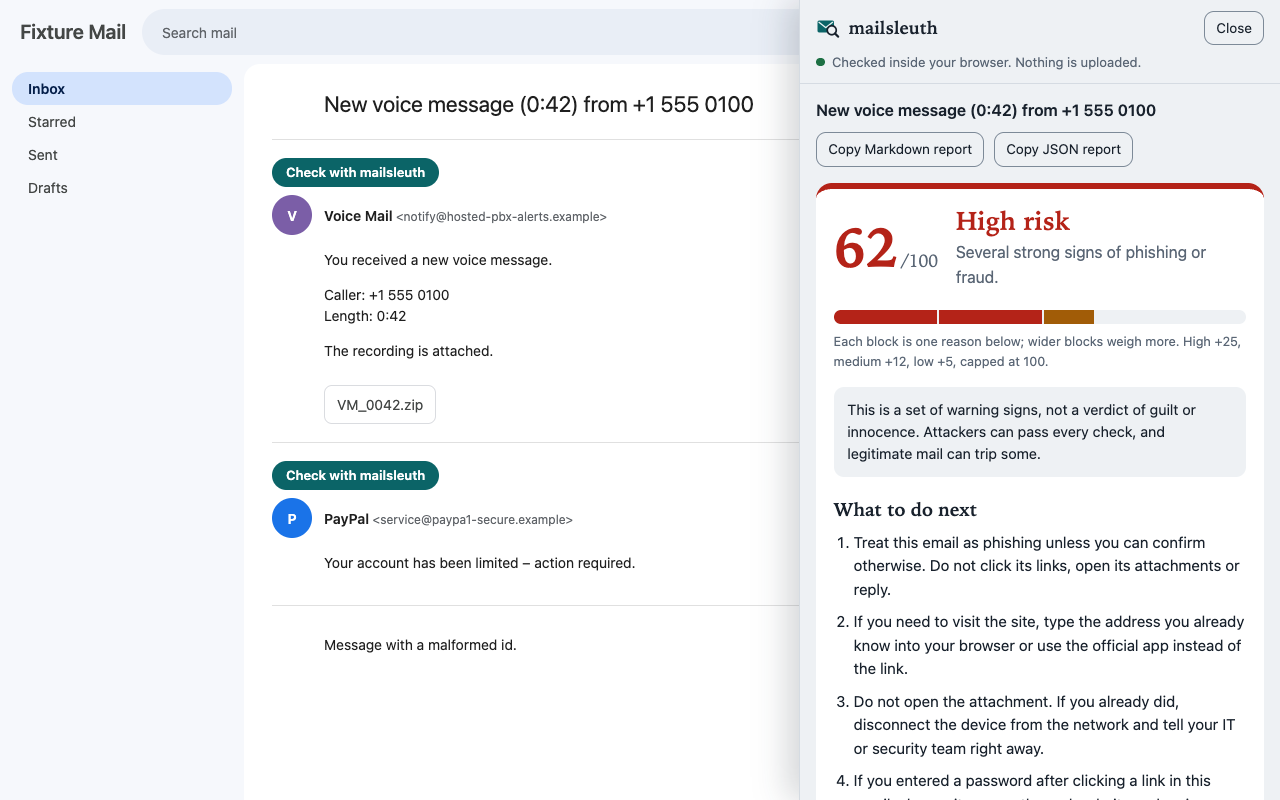
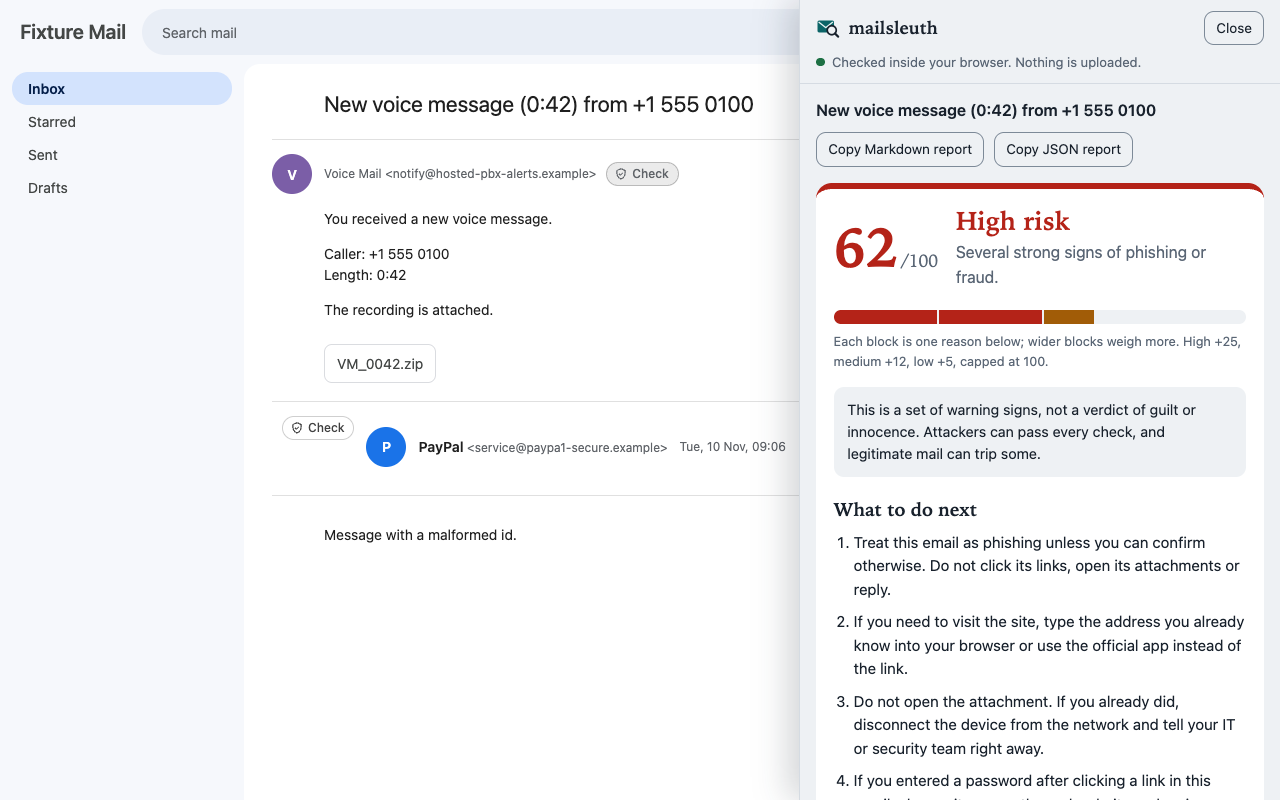
Extension: small Check chip in the sender line instead of a full-height button

diff --git a/src/extension/content.ts b/src/extension/content.ts
@@ -57,19 +57,49 @@ window.addEventListener('message', (e) => {
   if (e.origin === EXT_ORIGIN && frame && e.source === frame.contentWindow && e.data?.type === 'close') closePanel();
 });
 
+// Neutral colours taken from the surrounding text, so the chip suits Gmail's light and dark themes.
+const style = document.createElement('style');
+style.textContent = `.mailsleuth-chip{display:inline-flex;align-items:center;gap:4px;height:24px;padding:0 9px 0 7px;margin:0;
+font:500 12px/1 "Google Sans",system-ui,-apple-system,"Segoe UI",Roboto,sans-serif;color:inherit;background:transparent;
+border:1px solid rgba(128,128,128,.45);border-radius:999px;cursor:pointer;opacity:.85}
+.mailsleuth-chip:hover{opacity:1;background:rgba(128,128,128,.16)}
+.mailsleuth-chip:focus-visible{opacity:1;outline:2px solid #0b8a8f;outline-offset:2px}`;
+document.head.append(style);
+
+function shieldIcon(): SVGSVGElement {
+  const NS = 'http://www.w3.org/2000/svg';
+  const svg = document.createElementNS(NS, 'svg');
+  svg.setAttribute('viewBox', '0 0 24 24');
+  svg.setAttribute('width', '14');
+  svg.setAttribute('height', '14');
+  svg.setAttribute('aria-hidden', 'true');
+  const path = document.createElementNS(NS, 'path');
+  path.setAttribute('d', 'M12 3 5 6v5c0 4.4 3 8.3 7 9.5 4-1.2 7-5.1 7-9.5V6z M9 12l2 2 4-4');
+  path.setAttribute('fill', 'none');
+  path.setAttribute('stroke', 'currentColor');
+  path.setAttribute('stroke-width', '2');
+  path.setAttribute('stroke-linecap', 'round');
+  path.setAttribute('stroke-linejoin', 'round');
+  svg.append(path);
+  return svg;
+}
+
 function addButtons() {
   for (const message of document.querySelectorAll(MESSAGE_SELECTOR)) {
     if (message.querySelector(`[${MARK}]`)) continue;
     const query = messageQuery(message);
     if (!query) continue;
-    const bar = document.createElement('div');
+    const bar = document.createElement('span');
     bar.setAttribute(MARK, '');
-    bar.style.cssText = 'display:flex;padding:4px 0 8px';
+    bar.style.cssText = 'display:inline-flex;vertical-align:middle;margin-left:10px;flex:none';
     const button = document.createElement('button');
     button.type = 'button';
-    button.textContent = 'Check with mailsleuth';
-    button.style.cssText = 'font:600 13px/1 system-ui,-apple-system,"Segoe UI",Roboto,sans-serif;color:#fff;background:#0b6467;' +
-      'border:0;border-radius:999px;padding:8px 14px;cursor:pointer;outline-offset:2px';
+    button.className = 'mailsleuth-chip';
+    button.setAttribute('aria-label', 'Check with mailsleuth');
+    button.title = 'Check this email for phishing signs (mailsleuth, offline)';
+    button.append(shieldIcon(), 'Check');
+    // The chip sits in Gmail's header, where a click would also collapse the message.
+    for (const type of ['mousedown', 'mouseup', 'click']) button.addEventListener(type, (e) => e.stopPropagation());
     button.addEventListener('click', () => void check(query, button));
     bar.append(button);
     placeBar(message, bar);

diff --git a/test/fixtures/gmail/thread.html b/test/fixtures/gmail/thread.html
@@ -1,7 +1,8 @@
 <!doctype html>
 <!--
   Synthetic test fixture, NOT Gmail: a minimal page that copies only the parts of Gmail's message markup
-  the extension relies on (data-message-id / data-legacy-message-id on each open message). Used by
+  the extension relies on (data-message-id / data-legacy-message-id on each open message, and the sender line
+  h3 > span[email]). The second message is laid out as a row, as Gmail does, to test the fallback placement. Used by
   test/extension.test.ts and, served as https://mail.google.com/mail/u/0/ through Playwright routing,
   by scripts/e2e-extension.mjs. The messages are the repository's synthetic samples; no real mail.
 -->
@@ -23,7 +24,8 @@
       .adn { border-top: 1px solid #e0e0e0; padding: 14px 0 18px; }
       .head { display: flex; gap: 12px; align-items: center; }
       .avatar { width: 40px; height: 40px; border-radius: 50%; display: grid; place-items: center; color: #fff; font-weight: 600; }
-      .who { font-weight: 600; }
+      .who { font-weight: 600; font-size: 14px; margin: 0; }
+      .row { display: flex; gap: 12px; }
       .who span { font-weight: 400; color: #5f6368; font-size: 12px; }
       .date { margin-left: auto; color: #5f6368; font-size: 12px; }
       .body { margin: 12px 0 0 52px; max-width: 60ch; }
@@ -41,7 +43,7 @@
         <div class="adn ads" data-message-id="#msg-f:1790000000000000042" data-legacy-message-id="18d6f5c2a4b3e042">
           <div class="head">
             <div class="avatar" style="background:#7b5ea7">V</div>
-            <div class="who">Voice Mail <span>&lt;notify@hosted-pbx-alerts.example&gt;</span></div>
+            <h3 class="who iw"><span class="gD" email="notify@hosted-pbx-alerts.example">Voice Mail</span> <span>&lt;notify@hosted-pbx-alerts.example&gt;</span></h3>
             <div class="date">Sat, 21 Nov, 07:41</div>
           </div>
           <div class="body">
@@ -53,7 +55,7 @@
         </div>
 
         <!-- Older markup: only the legacy hex id. -->
-        <div class="adn ads" data-legacy-message-id="18d6f5c2a4b3e001">
+        <div class="adn ads row" data-legacy-message-id="18d6f5c2a4b3e001">
           <div class="head">
             <div class="avatar" style="background:#1a73e8">P</div>
             <div class="who">PayPal <span>&lt;service@paypa1-secure.example&gt;</span></div>

diff --git a/test/extension.test.ts b/test/extension.test.ts
@@ -4,7 +4,7 @@ import { readFileSync } from 'node:fs';
 import { beforeEach, describe, expect, it } from 'vitest';
 import { analyze } from '../src/core/analyze';
 import { bytesToBinary } from '../src/core/encoding';
-import { fetchRawMessage, MESSAGE_SELECTOR, messageQuery, rawMessageUrl } from '../src/extension/gmail';
+import { fetchRawMessage, MESSAGE_SELECTOR, messageQuery, placeBar, rawMessageUrl } from '../src/extension/gmail';
 
 const read = (path: string) => readFileSync(new URL(path, import.meta.url));
 const GMAIL = { origin: 'https://mail.google.com', pathname: '/mail/u/0/' };
@@ -38,6 +38,20 @@ describe('Gmail message ids', () => {
     expect(rawMessageUrl({ ...GMAIL, pathname: '/mail/' }, 'th=ab')).toBe('https://mail.google.com/mail/?view=att&th=ab&attid=0&disp=comp&safe=1&zw');
     // Any other path (a popout, a future layout) falls back to the first account rather than guessing.
     expect(rawMessageUrl({ ...GMAIL, pathname: '/mail/u/0/popout' }, 'th=ab')).toBe('https://mail.google.com/mail/u/0/?view=att&th=ab&attid=0&disp=comp&safe=1&zw');
+  });
+});
+
+describe('where the Check chip goes', () => {
+  it('joins the sender line when there is one, else goes first without stretching', () => {
+    const [withSender, rowLayout] = document.querySelectorAll(MESSAGE_SELECTOR);
+    const a = document.createElement('span');
+    placeBar(withSender, a);
+    expect(a.parentElement?.tagName).toBe('H3');
+    expect(a.parentElement?.querySelector('[email]')?.textContent).toBe('Voice Mail');
+    const b = document.createElement('span');
+    placeBar(rowLayout, b);
+    expect(rowLayout.firstElementChild).toBe(b);
+    expect(b.style.alignSelf).toBe('flex-start');
   });
 });
 

diff --git a/src/extension/gmail.ts b/src/extension/gmail.ts
@@ -21,8 +21,15 @@ export function messageQuery(el: Element): string | null {
   return null;
 }
 
-/** Where the "Check with mailsleuth" bar goes: first thing inside the message, above its header. */
-export function placeBar(message: Element, bar: Element) {
+/**
+ * Where the "Check" chip goes: at the end of the sender line (the <h3> holding the sender's span[email], the
+ * hook Gmail.js uses for the sender), next to Gmail's own "Unsubscribe" link. Without one, first thing in the message.
+ */
+export function placeBar(message: Element, bar: HTMLElement) {
+  const sender = message.querySelector('h3 span[email]')?.closest('h3');
+  if (sender) return void sender.append(bar);
+  // Gmail lays a message out as a row; a prepended child would otherwise stretch into a full-height column.
+  bar.style.alignSelf = 'flex-start';
   message.prepend(bar);
 }
 

diff --git a/README.md b/README.md
@@ -10,7 +10,7 @@ Built for regular people who want a second opinion on one email, and for SOC beg
 
 ## Use it inside Gmail
 
-A browser extension adds a **Check with mailsleuth** button above each open email in Gmail on the web. One click shows the full result in a panel next to the email: score, risk level, every reason with its evidence, links, and attachment hashes with VirusTotal and MalwareBazaar lookup buttons. No exporting, no pasting.
+A browser extension adds a small **🛡 Check** button to the sender line of each open email in Gmail on the web. One click shows the full result in a panel next to the email: score, risk level, every reason with its evidence, links, and attachment hashes with VirusTotal and MalwareBazaar lookup buttons. No exporting, no pasting.
 
 ![The mailsleuth panel open next to an email in a Gmail-like test page: a synthetic voicemail with a ZIP attachment scores 62 out of 100, high risk, with what to do next](docs/screenshots/extension-gmail.png)
 
@@ -26,7 +26,7 @@ npm run build:extension   # writes dist-extension/ and mailsleuth-extension-chro
 1. Open `chrome://extensions` (Edge: `edge://extensions`, Brave: `brave://extensions`).
 2. Turn on **Developer mode** (top right).
 3. Click **Load unpacked** and choose the `dist-extension` folder.
-4. Reload Gmail, open an email, click **Check with mailsleuth**. Escape or **Close** hides the panel.
+4. Reload Gmail, open an email, click **Check** next to the sender's name. Escape or **Close** hides the panel.
 
 Without Node: every CI run on `main` uploads the same build as the `mailsleuth-extension` artifact (Actions tab, needs a GitHub login); unzip `mailsleuth-extension-chrome.zip` and load that folder. Firefox 128+: `about:debugging#/runtime/this-firefox` › **Load Temporary Add-on** › pick `mailsleuth-extension-firefox.zip`; this build exists but has not been tested in Firefox.
 

diff --git a/CHANGELOG.md b/CHANGELOG.md
@@ -5,6 +5,7 @@ All notable changes to this project are documented here. Format: [Keep a Changel
 ## [Unreleased]
 
 ### Fixed
+- Extension: the button stretched into a tall coloured column beside the email, because Gmail lays each message out as a row. It is now a small "Check" chip in the sender line, next to Gmail's own unsubscribe link, with neutral colours for light and dark themes; clicking it no longer collapses the message.
 - Extension: "Check with mailsleuth" failed in Chrome with "Failed to fetch". Gmail redirects its download link to `mail-attachment.googleusercontent.com`, and the request was same-origin only, so the browser blocked the redirect. The redirect is now followed; a response from any host other than Gmail's two is discarded.
 
 ### Added (round 17: browser extension)
